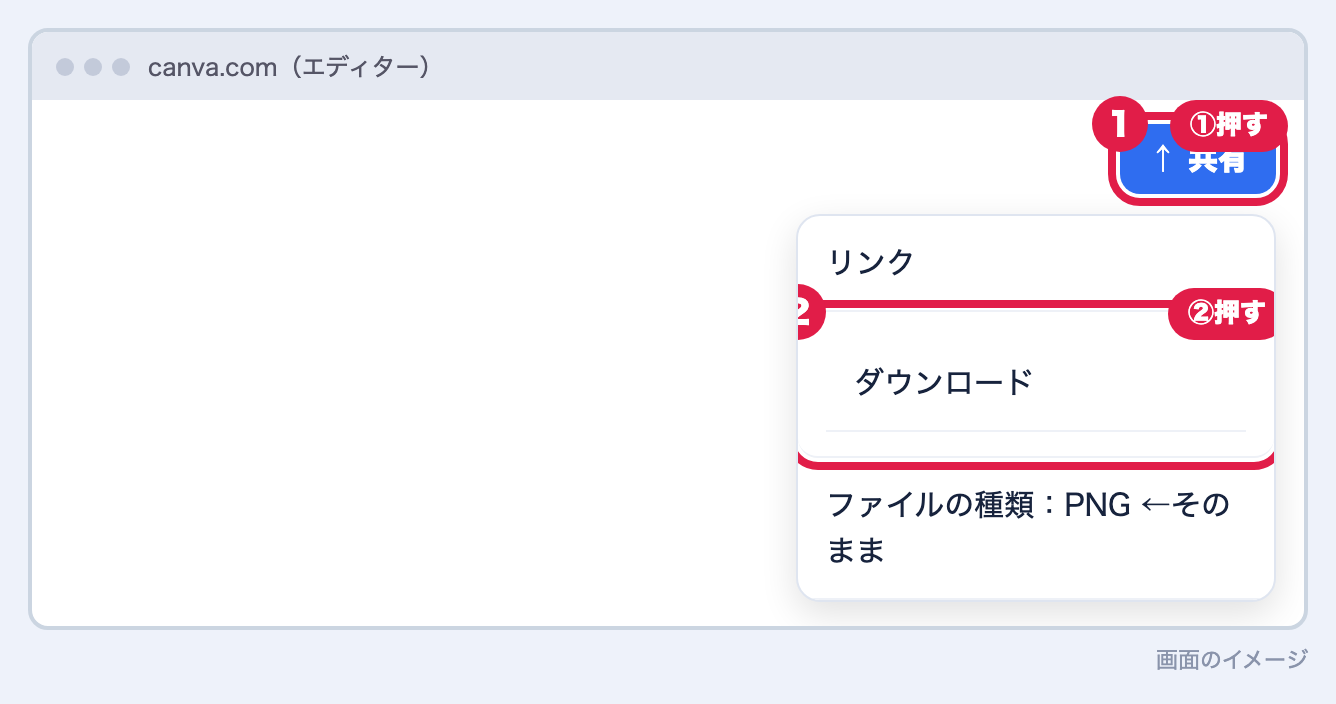
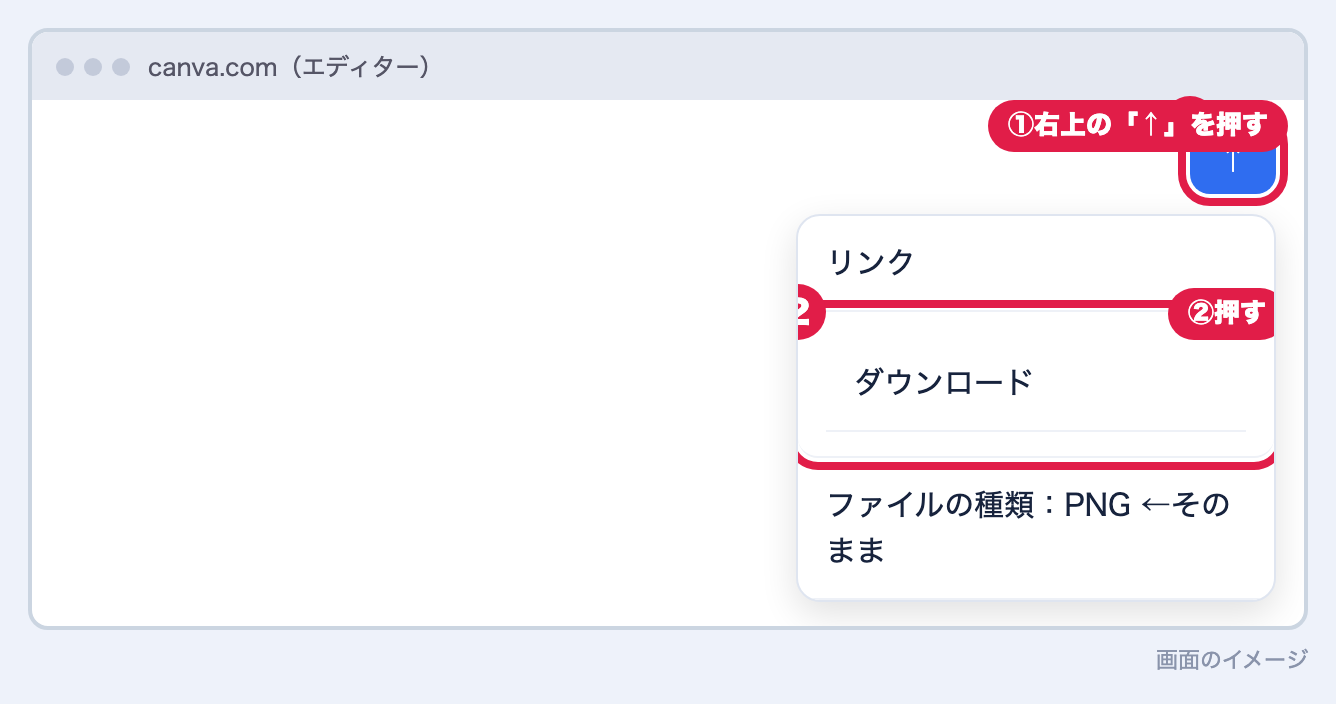
2回目の点検の指摘を反映（Canva手順の食い違い・重複・端末・用語）

Changed region(s): [[0.7365, 0.125, 0.9513, 0.3125]]

diff --git a/data.js b/data.js
@@ -9,6 +9,7 @@ const OVERVIEW={
 };
 const LINKS_IN=[['ChatGPT','https://chatgpt.com/'],['Canva','https://www.canva.com/'],['Instagram（登録ページ）','https://www.instagram.com/accounts/emailsignup/']];
 const ASK_STAFF=['運営から割り当てられるユーザーネーム','メール認証の復旧コードを しまう場所（職員さんと決める）','提出する Discord の自分のチャンネル（事業所カテゴリー内）','情報収集のスプレッドシートの場所','Canvaのテンプレートのリンク（職員さんから もらう）'];
+const IMGNOTE='この指示書の画像のうち、実際の画面を撮れない物は「画面のイメージ」です。実際の画面は、色や場所が少し違うことがあります。迷ったら、職員さんに聞きます。';
 const GLOSS=[['ペースト','貼り付け。コピーした文を、入力欄に入れること'],['ダウンロード','保存。ネットの画像や文を、自分の機械に入れること'],['ハッシュタグ','「#」から始まる言葉。この指示書では「#エスピクトスクール #エスピクトクリエイター」の2つを必ず入れる'],['PNG','画像のファイルの形のひとつ。保存する時に「PNG」を選ぶ'],['最前面','一番上に重ねること'],['スプレッドシート','表のファイル。行と列に文字が入っている'],['シェア','Instagramで、投稿を公開すること']];
 const ORDER={head:['','投稿する順番','固定する順番','できあがり（プロフィールの左から）'],rows:[['WORK','1番目','1番目','3番目（右）'],['LEARN','2番目','2番目','2番目（中央）'],['CREATE','3番目','3番目','1番目（左）']],note:'Instagramでは、あとから固定した投稿が いちばん左に来ます。だから WORK → LEARN → CREATE の順に1件ずつ固定すると、左から CREATE・LEARN・WORK になります。'};
 const BIO='エスピクトスクールで"好き"を仕事にしています。\n就労支援事業所の利用者として\n［制作分野］に挑戦中。\nエスピクトスクール｜［事業所名］';
@@ -29,28 +30,28 @@ const PHASES=[
  {t:'自己紹介を入れる',p:['次の文を貼り付け、［ ］の部分を自分の内容に置き換えます。'],img:'s4.png',copy:{label:'自己紹介（4行）',text:BIO},ok:'自己紹介が4行で入っている。'},
  {t:'公式アイコンを設定する',p:['下のボタンで公式アイコンを保存します。','プロフィール編集の「写真やアバターを編集」を押し、保存したアイコンを選びます。'],dl:['icon'],img:'s5.png',ok:'プロフィールに公式アイコンが表示されている。'},
  {t:'公式サイトのリンクを入れる',p:['「リンク」→「外部リンクを追加」を押し、「URL」欄と「タイトル」欄に、次の文を入れます。'],img:'s6.png',imgs:['s7.png','s8.png','s9.png','s10.png'],copy:[{label:'URL',text:'https://espict-school.com/'},{label:'タイトル',text:'エスピクトスクール公式サイト'}],ok:'プロフィールにリンクが表示されている。'},
- {t:'固定する3投稿を公開する（WORK→LEARN→CREATE）',shots:[['m/ig_plus.png','①Instagramを開き、下の「＋」を押します'],['m/ig_menu.png','②「投稿」を選びます'],['m/ig_pick.png','③保存した画像（1枚）を選びます'],['m/ig_next.png','④「次へ」を2回押します'],['m/ig_paste.png','⑤文の所を長押しして「ペースト」。投稿文は、下のコピーした文です'],['m/ig_check.png','⑥職員さんに見せて、OKをもらいます'],['m/ig_share.png','⑦OKが出たら「シェア」を押します']],p:['3件とも公開・固定できていれば、このステップは飛ばします。','下のボタンで、画像を1枚ずつ保存します。WORK→LEARN→CREATEの順に、1件ずつ別々に投稿します。3枚を1つの投稿にはまとめません。','画像の中の数字は、プロフィールに並んだ時の「左からの位置」です。投稿する順番ではありません。投稿する順番は、ここに書いた「1番目・2番目・3番目」です。'],dl:['w','l','c'],order:true,details:[...PHONE_IN,POST_PHONE],copy:[{label:'WORK の投稿文',text:'学びを、社会につなげる。\n一人で抱えず、実践へ。\n作った物が誰かの役に立つ仕事を目指しています。\n'+TAG},{label:'LEARN の投稿文',text:'デジタルのチカラで、自分らしい未来へ。\n学んで、試して、整える。\n毎日少しずつ、できることが増えています。\n'+TAG},{label:'CREATE の投稿文',text:'好きなことから、始めよう。\n動画・SNS・Web・デザイン。\nエスピクトスクールで、作ることを仕事にしています。\n'+TAG}],ok:'3件の投稿が公開されている。'},
+ {t:'固定する3投稿を公開する（WORK→LEARN→CREATE）',shots:[['m/ig_plus.png','①Instagramを開き、下の「＋」を押します'],['m/ig_menu.png','②「投稿」を選びます'],['m/ig_pick.png','③保存した画像（1枚）を選びます'],['m/ig_next.png','④「次へ」を2回押します'],['m/ig_paste.png','⑤文の所を長押しして「ペースト」。投稿文は、下のコピーした文です'],['m/ig_check.png','⑥職員さんに見せて、OKをもらいます'],['m/ig_share.png','⑦OKが出たら「シェア」を押します']],p:['3件とも公開・固定できていれば、このステップは飛ばします。','下のボタンで、画像を1枚ずつ保存します。WORK→LEARN→CREATEの順に、1件ずつ別々に投稿します。3枚を1つの投稿にはまとめません。','ここがだいじ：WORK → LEARN → CREATE の順に3件投稿し、同じ順に3件固定します。画像の中の数字は、プロフィールに並んだ時の「左からの位置」で、投稿する順番ではありません。'],dl:['w','l','c'],details:[...PHONE_IN,POST_PHONE],copy:[{label:'WORK の投稿文',text:'学びを、社会につなげる。\n一人で抱えず、実践へ。\n作った物が誰かの役に立つ仕事を目指しています。\n'+TAG},{label:'LEARN の投稿文',text:'デジタルのチカラで、自分らしい未来へ。\n学んで、試して、整える。\n毎日少しずつ、できることが増えています。\n'+TAG},{label:'CREATE の投稿文',text:'好きなことから、始めよう。\n動画・SNS・Web・デザイン。\nエスピクトスクールで、作ることを仕事にしています。\n'+TAG}],ok:'3件の投稿が公開されている。'},
  {t:'3件を固定する',shots:[['m/ig_menu_dots.png','投稿を開いて、右上の「︙」を押します'],['m/ig_pin.png','「プロフィールに固定」を押します']],p:['WORK → LEARN → CREATE の順に、1件ずつ固定します。各投稿の「…」→「プロフィールに固定」を押します。','プロフィールで、左からCREATE・LEARN・WORKに並んでいるか確認します。','順番が違う場合は、3件とも固定を外して、WORK → LEARN → CREATE の順に固定し直します。投稿の削除・再投稿はしません。'],order:true,img:'pin.png',imgcap:'固定後の並びの見本',ok:'プロフィールの左から、CREATE・LEARN・WORKの順に固定されている。'}
 ]},
 {key:'each',label:'1投稿ごと',title:'作業の流れ｜1投稿ごと',note:'上から順に、1つずつ進めます。',steps:[
  {t:'シートから情報を1件選ぶ',shots:[['m/sheet_row.png','情報収集のスプレッドシート。投稿に使いたい行を1つ選びます']],p:['情報収集のスプレッドシートを開き、投稿に使いたい情報を1件選びます。'],ok:'選んだ情報の行が分かっている。'},
  {t:'元のURLを開いて内容を確認する',shots:[['m/sheet_url.png','「URL」の列の文字を押すと、元の投稿が開きます。内容を読んで確かめます']],p:['選んだ情報の元のURLを開き、内容を確認します。'],warn:'機能・料金・数字は、公式情報でも確認します。確認できない内容は使いません。共有シートの場合は「採用候補」から選びます。',ok:'元の情報と、公式情報の両方で確認できた。'},
  {t:'ChatGPTを開く',shots:[['m/gpt_new.png','ChatGPTを開くと、下の方に質問を入れる欄があります（画面は少し変わることがあります）']],p:['ChatGPTを開き、新しい会話を始めます。このあとの質問1〜3は、同じ会話で順番に送ります。'],ok:'質問を入れる入力欄が表示されている。'},
- {t:'質問1を送る（情報を整理する）',shots:[['m/gpt_send.png','①欄に、コピーした質問を貼ります ②「↑」（送信）を押します'],['m/gpt_answer.png','答えが、3つの見出しに分かれて出ればOKです']],p:['次の文をコピーし、［入力］の部分を置き換えて送信します。','入れるもの：情報区分＝シートの「カテゴリ」／タイトル・内容＝「投稿タイトル・内容」／備考＝「備考」／元情報URL＝「URL」。事実確認メモには、自分で元のURLや公式ページを見て確かめたことを書きます（列の名前はシートで少し違うことがあります。分からない時は職員さんに聞きます）。'],warn:'名前・電話番号などの個人情報や、パスワードは入れません。ChatGPTの答えを、事実確認の代わりにしません。',copy:{label:'質問1',text:Q1},ok:'ChatGPTが、3つに分けて答えてくれた。'},
+ {t:'質問1を送る（情報を整理する）',shots:[['m/gpt_send.png','①欄に、コピーした質問を貼ります ②「↑」（送信）を押します'],['m/gpt_answer.png','答えが、3つの見出しに分かれて出ればOKです']],p:['次の文をコピーし、［入力］の部分を置き換えて送信します。','入れるもの：情報区分＝シートの「カテゴリ」／タイトル・内容＝「投稿タイトル・内容」／備考＝「備考」／元情報URL＝「URL」。事実確認メモには、自分で元のURLや公式ページを見て確かめたことを書きます（確かめていない時は「まだ確かめていません」と書く）（列の名前はシートで少し違うことがあります。分からない時は職員さんに聞きます）。'],warn:'顔・名前（名札も）・LINEの画面・電話番号などの個人情報や、パスワードは入れません。ChatGPTの答えを、事実確認の代わりにしません。',copy:{label:'質問1',text:Q1},ok:'ChatGPTが、3つに分けて答えてくれた。'},
  {t:'質問2を送る（伝える内容を決める）',shots:[['m/gpt_q.png','ChatGPTの質問に、1つずつ答えます。分からない時は「分かりません」でOK']],p:['次の文をそのまま送り、ChatGPTからの質問に1つずつ答えます。','分からない質問には、「分かりません」と答えてかまいません。自分で数字や効果を作って答えません。'],copy:{label:'質問2',text:Q2},ok:'読者と、伝える内容が決まった。'},
  {t:'質問3を送る（投稿文を作る）',shots:[['m/gpt_post.png','本文とハッシュタグが出ます。「コピー」のマークで、文をコピーできます']],p:['読者と伝える内容が決まったら、次の文をそのまま送ります。'],copy:{label:'質問3',text:Q3},ok:'本文とハッシュタグだけの投稿文が出た。'},
  {t:'投稿文を元情報と見比べる',shots:[['m/compare.png','元の情報と、投稿文を見くらべます。ちがう所があれば直します']],p:['投稿文を元の情報と見比べ、違うところがあれば直します。'],ok:'投稿文が元の情報と合っている。'},
  {t:'投稿画像を作る',shots:[['m/gpt_img.png','同じChatGPTの会話で、画像を作ってもらいます。出てくる画像を見て、文字の間違いがないか確かめます']],p:['同じChatGPTで、完成した投稿文をもとに投稿画像を作ります。','縦3：4で、文字を大きく、伝える内容は1つに絞ります。'],warn:'人の顔・名前（名札も）・予定表やLINEの画面・場所が分かる物は、ChatGPTにもCanvaにも入れません。個人情報や、無断で使った画像・他社ロゴも入れません。エスピクトのロゴとじゃっぷちゃんは生成しません（次の手順で、公式の型を使います）。',ok:'縦長で、文字が大きく読める画像ができた。'},
  {t:'画像を直してダウンロードする',shots:[['m/gpt_dl.png','画像を押して、保存（ダウンロード）します。投稿文はChatGPTの画面からコピーして、メモなどに残します']],p:['画像の誤字や内容の違いを直し、ダウンロードします。','投稿文の最後に次の2つのハッシュタグを付けて保存します。'],copy:{label:'ハッシュタグ',text:TAG},ok:'画像と、ハッシュタグ付きの投稿文が保存できた。'},
- {t:'Canvaで、公式の型に画像を入れる',shots:[['m/canva_open.png','職員さんからもらったリンクを開き、「エディターで開く」を押します'],['m/canva_replace.png','①まんなかの四角を押す ②「置き換え」→「アップロード」で、保存した画像を選びます']],p:['職員さんから もらった、Canvaの公式の型（テンプレート）のリンクを開きます。Canvaのログインが要ります。はじめての時は、職員さんと一緒に。','「テンプレートを表示」→「エディターで開く」を押します。','まんなかの四角を押し →「置き換え」→「アップロード」で、ChatGPTで作って保存した画像を選び、もう一度押します。','帯・ロゴ・じゃっぷちゃんは、型の中にもう入っています。動かしません。'],ok:'帯とじゃっぷちゃんの下に、自分の画像が入っている。'},
- {t:'画像を保存する（PNG）',shots:[['m/canva_dl.png','①右上の「共有」→ ②「ダウンロード」。ファイルの種類は「PNG」のままです']],p:['右上の「↑」を押し →「ダウンロード」→ PNGのまま「ダウンロード」を押します。','帯・ロゴ・じゃっぷちゃんが、作品に重なっていないか見ます。文字が帯に重なる時は、画像の位置を直します。'],img:'finish.png',imgcap:'仕上がりの見本（説明用）',details:[{title:'テンプレートが開けない時の予備（職員さん用）',steps:['公式の型PNG（上のダウンロード）をCanvaに入れ、画像の上に重ねて、最前面に置きます','どうしても難しい時は、ChatGPTで作った画像をそのまま投稿します（職員さんに相談）']}],dl:['ov'],ok:'PNGの画像が保存できた。帯の位置が見本と同じ。'},
- {t:'Instagramに画像を入れる',shots:[['m/ig_plus.png','①Instagramを開き、下の「＋」を押します'],['m/ig_menu.png','②「投稿」を選びます'],['m/ig_pick.png','③保存した画像を選びます'],['m/ig_next.png','④「次へ」を2回押します'],['m/drive_save.png','（画像がスマホに無い時）Googleドライブで画像を開き、右上の「︙」を押します'],['m/drive_menu.png','Android：「ダウンロード」／iPhone：「アプリで開く」→「画像を保存」']],p:['Instagramで投稿するアカウントを開き、「＋」→「投稿」→ 保存した画像を選び →「次へ」を2回押します。','スマホで投稿する時は、画像を先にスマホの「写真」に入れます（下の手順。職員さんと一緒に）。'],details:[...PHONE_IN,POST_PHONE],ok:'画像が選ばれ、投稿の編集画面になっている。'},
- {t:'投稿文を貼り付ける',shots:[['m/ig_paste.png','文の所を長押しして、「ペースト」を押します']],p:['ChatGPTで作った投稿文を、文章の欄に貼り付けます。'],ok:'投稿文とハッシュタグが入っている。'},
+ {t:'Canvaで、公式の型に画像を入れる',shots:[['m/canva_open.png','職員さんからもらったリンクを開き、「エディターで開く」を押します'],['m/canva_replace.png','①まんなかの四角を押す ②「置き換え」を押す ③「アップロード」で、保存した画像を選びます']],p:['職員さんから もらった、Canvaの公式の型（テンプレート）のリンクを開きます。Canvaのログインが要ります。はじめての時は、職員さんと一緒に。','「テンプレートを表示」→「エディターで開く」（編集できる形で開く）を押します。リンクが まだの時は、ここで職員さんに聞きます。','①まんなかの四角を押します。②下の「置き換え」を押します。③「アップロード」で、ChatGPTで作って保存した画像を選びます（選んだあと、出てきた画像をもう一度押すと入ります）。','帯・ロゴ・じゃっぷちゃんは、型の中にもう入っています。動かしません。'],ok:'帯とじゃっぷちゃんの下に、自分の画像が入っている。'},
+ {t:'画像を保存する（PNG）',shots:[['m/canva_dl.png','①右上の「↑」を押す ②「ダウンロード」を押す。ファイルの種類は「PNG」のままです']],p:['右上の「↑」を押し →「ダウンロード」→ ファイルの種類は PNG のまま「ダウンロード」を押します。','帯・ロゴ・じゃっぷちゃんが、作品に重なっていないか見ます。文字が帯に重なる時は、画像の位置を直します。'],img:'finish.png',imgcap:'仕上がりの見本（説明用）',details:[{title:'テンプレートが開けない時の予備（職員さん用）',steps:['公式の型PNG（上のダウンロード）をCanvaに入れ、画像の上に重ねて、最前面に置きます','どうしても難しい時は、ChatGPTで作った画像をそのまま投稿します（職員さんに相談）']}],dl:['ov'],ok:'PNGの画像が保存できた。帯の位置が見本と同じ。'},
+ {t:'Instagramに画像を入れる',shots:[['m/ig_plus.png','①Instagramを開き、下の「＋」を押します'],['m/ig_menu.png','②「投稿」を選びます'],['m/ig_pick.png','③保存した画像を選びます'],['m/ig_next.png','④「次へ」を2回押します'],['m/drive_save.png','（画像がスマホに無い時）Googleドライブで画像を開き、右上の「︙」を押します'],['m/drive_menu.png','Android：「ダウンロード」／iPhone：「アプリで開く」→「画像を保存」']],p:['Instagramで投稿するアカウントを開き、「＋」→「投稿」→ 保存した画像を選び →「次へ」を2回押します。','Instagramの投稿は、スマホで行います。パソコンで作った画像は、Googleドライブに入れてスマホの「写真」に保存します（入れ方は職員さんに聞きます。下の画像の手順です）。'],details:[POST_PHONE],ok:'画像が選ばれ、投稿の編集画面になっている。'},
+ {t:'投稿文を貼り付ける',shots:[['m/ig_paste.png','文の所を長押しして、「ペースト」を押します']],p:['ChatGPTで作った投稿文を、文章の欄に貼り付けます（長押し →「ペースト」＝貼り付け）。'],ok:'投稿文とハッシュタグが入っている。'},
  {t:'職員さんと一緒に、公開前に確認する',shots:[['m/ig_check.png','画像と文を、職員さんに見せます。OKが出るまで「シェア」は押しません']],p:['次の3つを確認します。「シェア」は、職員さんが見てOKを出してから押します。'],checks:['画像と文章が一致し、文字が読める。','個人情報や、無断で使った画像・ロゴがない。','投稿先と、2つのハッシュタグが正しい。'],details:[NG],open:true,ok:'3つとも、チェックが付けられた。'},
- {t:'シェアする',shots:[['m/ig_share.png','職員さんのOKが出たら、「シェア」を押します']],p:['確認できたら「シェア」を押します。'],warn:'通常の投稿は固定しません。最初の3件を固定したままにします。',ok:'投稿が公開された。'},
+ {t:'シェアする',shots:[['m/ig_share.png','職員さんのOKが出たら、「シェア」を押します']],p:['確認できたら「シェア」（＝公開）を押します。'],warn:'通常の投稿は固定しません。最初の3件を固定したままにします。',ok:'投稿が公開された。'},
  {t:'投稿のリンクをコピーする',shots:[['m/ig_menu_dots.png','公開した投稿を開いて、右上の「︙」を押します'],['m/ig_copylink.png','「リンクをコピー」を押します']],p:['公開した投稿の共有メニューや「…」から、「リンクをコピー」を押します。','コピーしたリンクを開いて、その投稿が開くことを確かめます。'],ok:'リンクを開くと、自分の投稿が表示される。'},
- {t:'リンクを提出する',shots:[['m/discord_submit.png','Discordの自分の事業所のチャンネルに、5つを書いて送ります（下のコピーを使います）']],p:['エスピクトサーバーの「事業所カテゴリー」内にある該当チャンネルへ、投稿の直接リンクを提出します。'],copy:{label:'提出の書き方',text:OVERVIEW.submit.text},warn:'本名は書きません。パスワードや認証コードも書きません。',ok:'リンクを送信でき、チャンネルに表示された。'}
+ {t:'リンクを提出する',shots:[['m/discord_submit.png','Discordの自分の事業所のチャンネルに、5つを書いて送ります（下のコピーを使います）']],p:['提出は、Discordのチャンネルです（アプリの「提出URL」は、職員さんが言った時だけ）。','エスピクトサーバーの「事業所カテゴリー」内にある、自分の事業所のチャンネルへ、投稿の直接リンクを提出します。'],copy:{label:'提出の書き方',text:OVERVIEW.submit.text},warn:'本名は書きません。パスワードや認証コードも書きません。',ok:'リンクを送信でき、チャンネルに表示された。'}
 ]}
 ];
-const HELP2=[['コピーボタンが効かない','文を指（マウス）でなぞって選び、長押し（右クリック）→「コピー」'],['ChatGPT・Canva・Instagramにログインできない','パスワードを自分で書いたりせず、職員さんに聞く'],['画像が保存されない／見つからない','もう一度ダウンロードを押す。保存先は「ダウンロード」フォルダ（スマホは「写真」）。見つからない時は職員さんに'],['「シェア」が押せない','画像と文が入っているか確認する。それでも押せなければ、画面を見せて職員さんに聞く'],['固定の順番がちがう','3件とも固定を外して、WORK → LEARN → CREATE の順に固定し直す'],['どのステップか分からなくなった','上の「できた」チェックを見て、最後にチェックした次のステップから再開する']];
+const HELP2=[['コピーボタンが効かない','スマホ：文を指でなぞって選び、長押し →「コピー」。パソコン：文をマウスでなぞって選び、右クリック →「コピー」'],['ChatGPT・Canva・Instagramにログインできない','パスワードを自分で書いたりせず、職員さんに聞く'],['画像が保存されない／見つからない','もう一度ダウンロードを押す。保存先は「ダウンロード」フォルダ（スマホは「写真」）。見つからない時は職員さんに'],['「シェア」が押せない','画像と文が入っているか確認する。それでも押せなければ、画面を見せて職員さんに聞く'],['固定の順番がちがう','3件とも固定を外して、WORK → LEARN → CREATE の順に固定し直す'],['どのステップか分からなくなった','上の「できた」チェックを見て、最後にチェックした次のステップから再開する']];
 const HELP=[...HELP2,['ChatGPTの答えが、元の情報と合わない','元の情報のURLを開き直し、合っていない所をChatGPTに伝えて直す'],['確認できない内容がある','その内容は使わない'],['画像の文字が読めない','ChatGPTに「文字を大きくして」と伝えて作り直す'],['Canvaで帯が重なる','文字や作品の位置を動かして、帯に重ならないようにする'],['投稿を消したい（取り下げたい）','すぐ職員さんに言う。すぐ非公開・削除してもらえます'],['どうしても進めない','画面と、どのステップかを書いて、そばの職員に聞く']];

diff --git a/index.html b/index.html
@@ -102,6 +102,8 @@ function overview(){
  <h2 style="margin-top:14px;font-size:18px">職員さんに聞いて、決めておくもの</h2><ul style="margin:4px 0 0;padding-left:22px">${ASK_STAFF.map(x=>`<li>${esc(x)}</li>`).join('')}</ul>
  <details class="more" style="margin-top:14px"><summary>ことばの説明</summary><table class="items">${GLOSS.map(g=>`<tr><td>${esc(g[0])}</td><td>${esc(g[1])}</td></tr>`).join('')}</table></details>
  <p class="small" style="margin:12px 0 0">${esc(o.stepnote)}</p>
+ <p class="small" style="margin:8px 0 0">📷 ${esc(IMGNOTE)}</p>
+ <p class="small" style="margin:8px 0 0">🖥 パソコンとスマホ：ChatGPT・Canvaは、どちらでもできます。Instagramの投稿は、スマホで行います（職員さんと一緒に）。</p>
  <h2 style="margin-top:18px;font-size:18px">納品先と、提出のきまり</h2>
  <p style="margin:0 0 6px"><b>納品先：</b>${esc(o.submit.to)}</p>
  <p style="margin:0 0 6px"><b>提出するもの：</b>${esc(o.submit.what)}</p>
